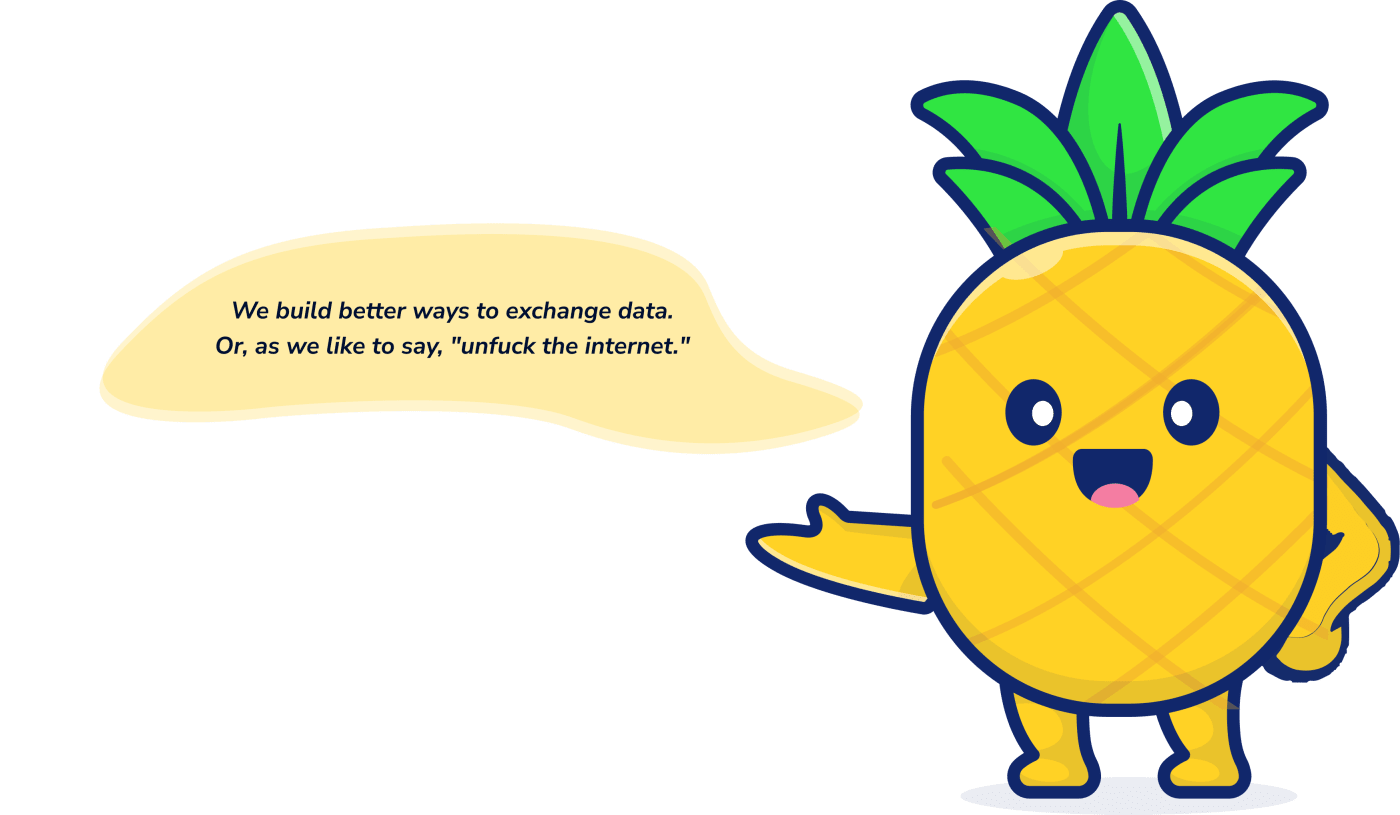
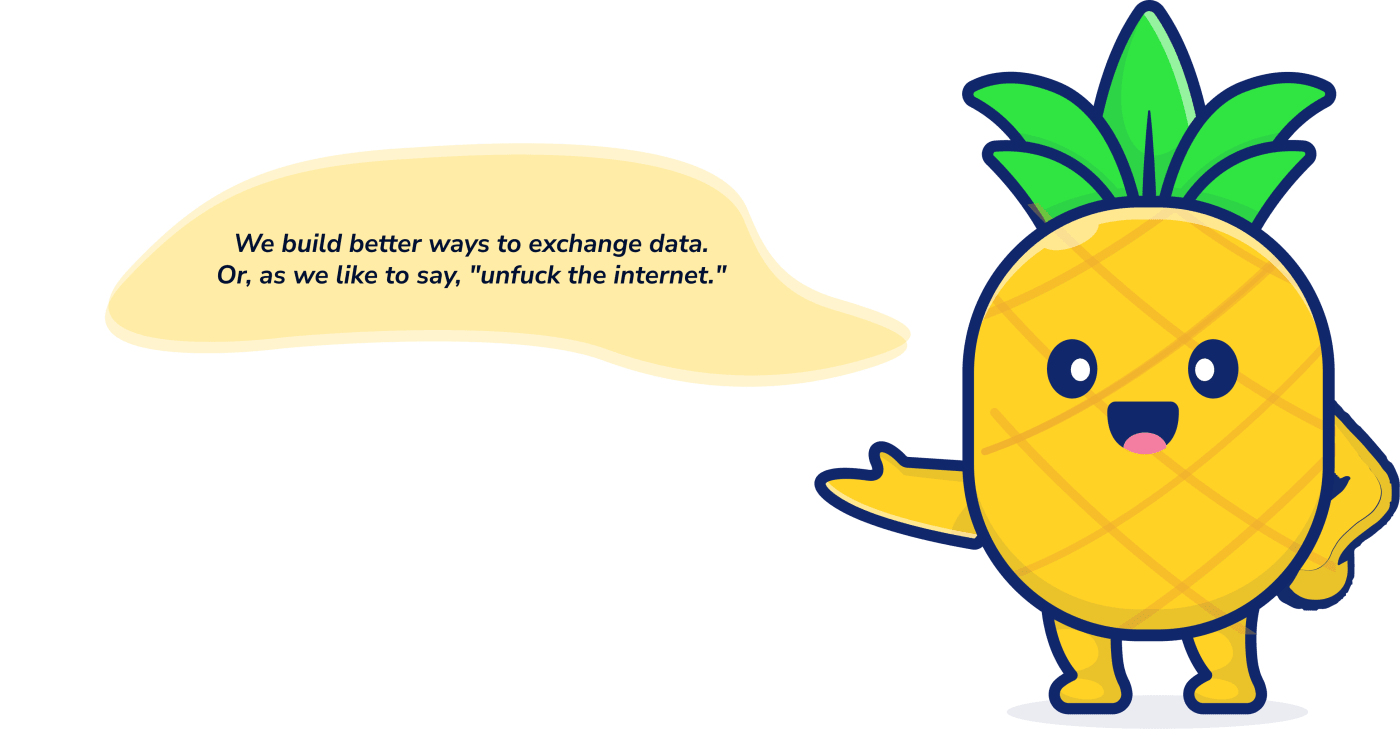
updated about to work for mobile

Changed region(s): [[0.0614, 0.0, 1.0, 0.9959], [0.8293, 0.7846, 0.86, 0.8148], [0.8293, 0.6337, 0.86, 0.6639]]

diff --git a/components/about/AboutGraphicCmp.vue b/components/about/AboutGraphicCmp.vue
@@ -9,12 +9,23 @@
       sizes="(max-width: 1400px) 100vw, 1400px"
       srcset="
         ~/assets/images/png/about_pineapple_w_200.png   200w,
-        ~/assets/images/png/about_pineapple_w_846.png   846w,
+        ~/assets/images/png/about_pineapple_w_894.png   894w,
         ~/assets/images/png/about_pineapple_w_1400.png 1400w
       "
       src="~/assets/images/png/about_pineapple_w_1400.png"
       alt='We build better ways to exchange data. Or, as we like to say, "unfuck the internet."'
-      class="aboutImgImg"
+      class="aboutImgImg desktop"
+    />
+    <img
+      sizes="(max-width: 1400px) 100vw, 1400px"
+      srcset="
+        ~/assets/images/png/about_pineapple_mobile_w_200.png   200w,
+        ~/assets/images/png/about_pineapple_mobile_w_571.png   571w,
+        ~/assets/images/png/about_pineapple_mobile_w_1156.png 1156w
+      "
+      src="~/assets/images/png/about_pineapple_mobile_w_1156.png"
+      alt='We build better ways to exchange data. Or, as we like to say, "unfuck the internet."'
+      class="aboutImgImg mobile"
     />
   </picture>
 </template>
@@ -29,12 +40,22 @@ export default {
 @import "assets/styles/mixins"
 @import "assets/styles/theme"
 
-.aboutImgImg
-  width: 100%
+@include for-phone
+  .desktop
+    display: none
+
+  .aboutImgImg
+    height: 100%
 
 @include for-tablet
   .aboutImg
     width: 100%
     height: auto
     display: block
+
+  .mobile
+    display: none
+
+  .aboutImgImg
+    width: 100%
 </style>

diff --git a/components/about/AboutCmp.vue b/components/about/AboutCmp.vue
@@ -5,13 +5,11 @@
 
 <template>
   <div class="aboutContainer">
-    <div class="col1">
+    <div class="txt">
       <about-problem-cmp class="problem" />
       <about-solution-cmp class="solution" />
     </div>
-    <div class="col2">
-      <about-graphic-cmp class="graphic" />
-    </div>
+    <about-graphic-cmp class="graphic" />
   </div>
 </template>
 
@@ -33,28 +31,44 @@ export default {
 @include for-phone
   .aboutContainer
     margin: 40px 5% 0 5%
+    position: relative
+    display: inline-block
 
   .problem
-    margin-bottom: 20px
+    margin-bottom: 450px
+
+  .graphic
+    position: absolute
+    height: 350px
+    left: 0
+    top: 60vw
+    right: 0
+    display: block
+    margin: auto
+    width: fit-content
 
 @include for-tablet
   .aboutContainer
-    display: flex
-    align-items: end
+    position: relative
+    margin: auto
+    display: block
 
-  .col1 .col2
-    width: 50%
-
-  .col1
-    max-width: 400px
-
-  .col2
-    margin-left: -10%
-    max-width: 60%
+  .txt
+    max-width: 500px
+    // margin-left: 20%
+    margin-right: auto
 
   .problem
     margin-bottom: 40px
 
   .solution
     margin-top: 225px
+
+  .graphic
+    position: absolute
+    // width: 80%
+    max-width: 700px
+    top: 60%
+    right: 0
+    transform: translateY(-50%)
 </style>

diff --git a/nuxt.config.js b/nuxt.config.js
@@ -7,7 +7,7 @@ export default {
   ssr: false,
   target: 'static',
   head: {
-    title: 'TIKI —unfuck the internet',
+    title: 'TIKI | Choose Better Data',
     htmlAttrs: {
       prefix: 'og: http://ogp.me/ns#',
     },
@@ -86,12 +86,7 @@ export default {
       },
     ],
   ],
-  modules: [
-    '@nuxtjs/style-resources',
-    '@nuxtjs/svg',
-    '@nuxtjs/axios',
-    '@nuxt/content',
-  ],
+  modules: ['@nuxtjs/style-resources', '@nuxtjs/svg', '@nuxtjs/axios'],
   build: {
     extend(config, ctx) {
       if (ctx.isDev && ctx.isClient) {

diff --git a/components/about/AboutSolutionCmp.vue b/components/about/AboutSolutionCmp.vue
@@ -6,7 +6,7 @@
 <template>
   <div>
     <div class="title">
-      We enable willing and informed people and businesses to trade at fair
+      We enable willing and informed people and businesses to trade data at fair
       market value with one another.
     </div>
     <div class="text">
@@ -28,6 +28,5 @@ export default {
   font-size: .95em
 
 .title
-  font-weight: bold
   margin-bottom: 20px
 </style>

diff --git a/pages/index.vue b/pages/index.vue
@@ -67,7 +67,7 @@ export default {
 @import "assets/styles/theme"
 
 .headerBar
-  position: fixed
+  // position: fixed
   z-index: 99
   top: 0
   left: 0
@@ -83,6 +83,9 @@ export default {
 @include for-phone
   .involvedCmp
     margin: 75px auto
+
+  .aboutCmp
+    margin-bottom: 80px
 
 @include for-tablet
   .aboutCmp

diff --git a/components/about/AboutProblemCmp.vue b/components/about/AboutProblemCmp.vue
@@ -34,7 +34,7 @@ export default {
 @include for-phone
   .title
     font-size: 2em
-    margin-bottom: 40px
+    margin-bottom: 30px
 
 @include for-tablet
   .title
